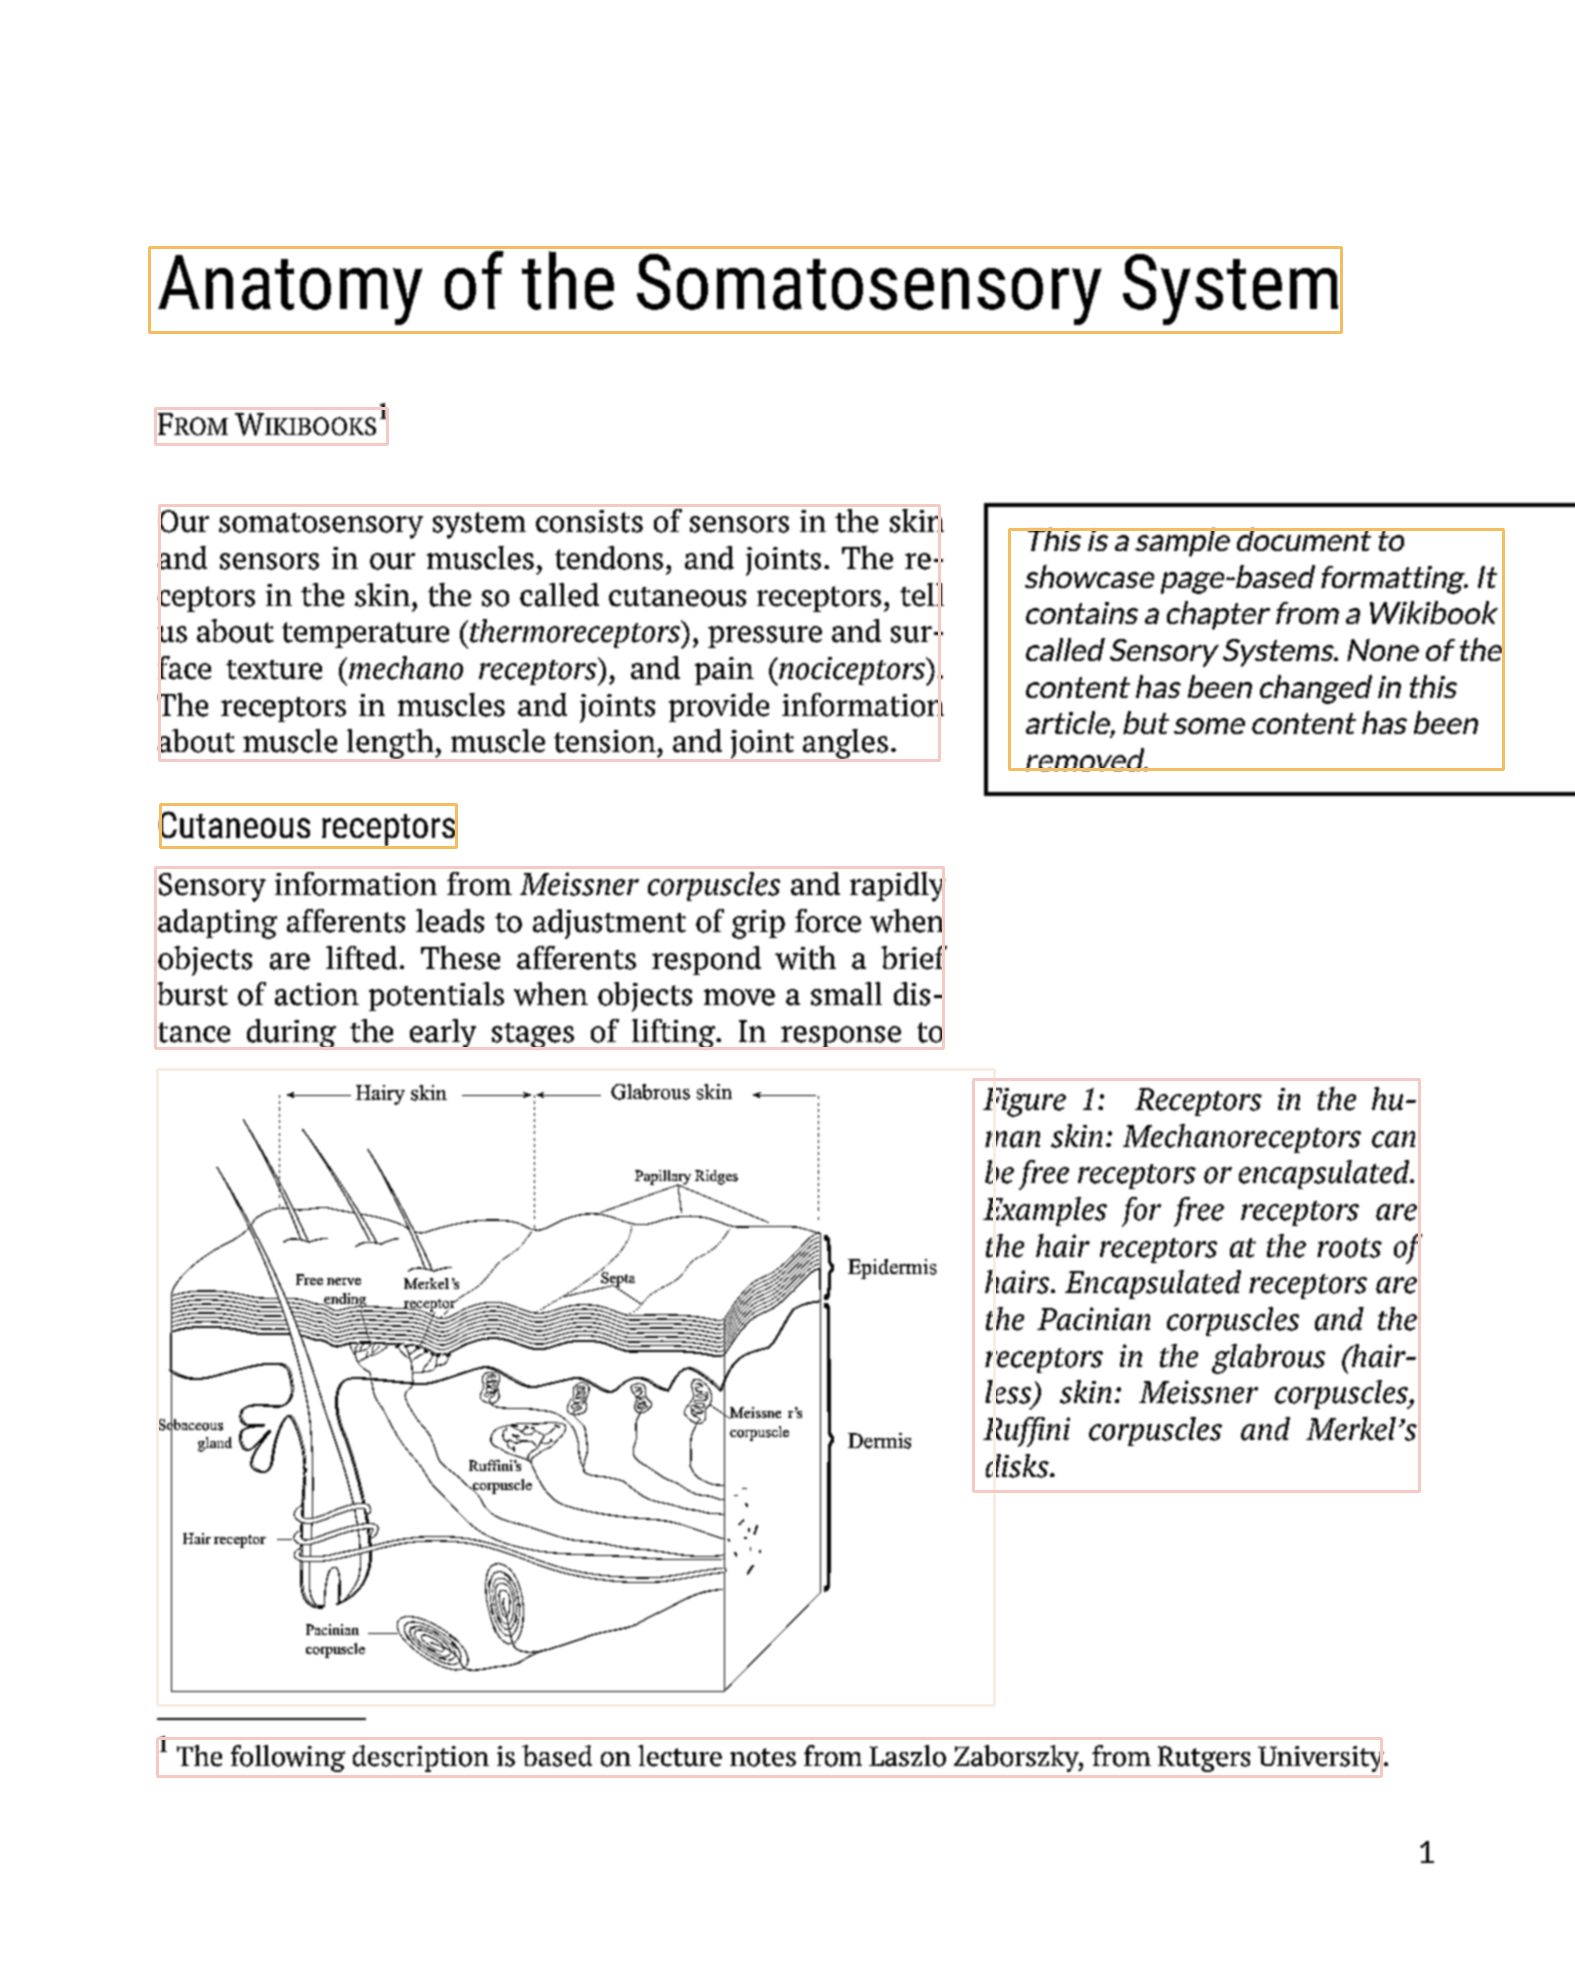
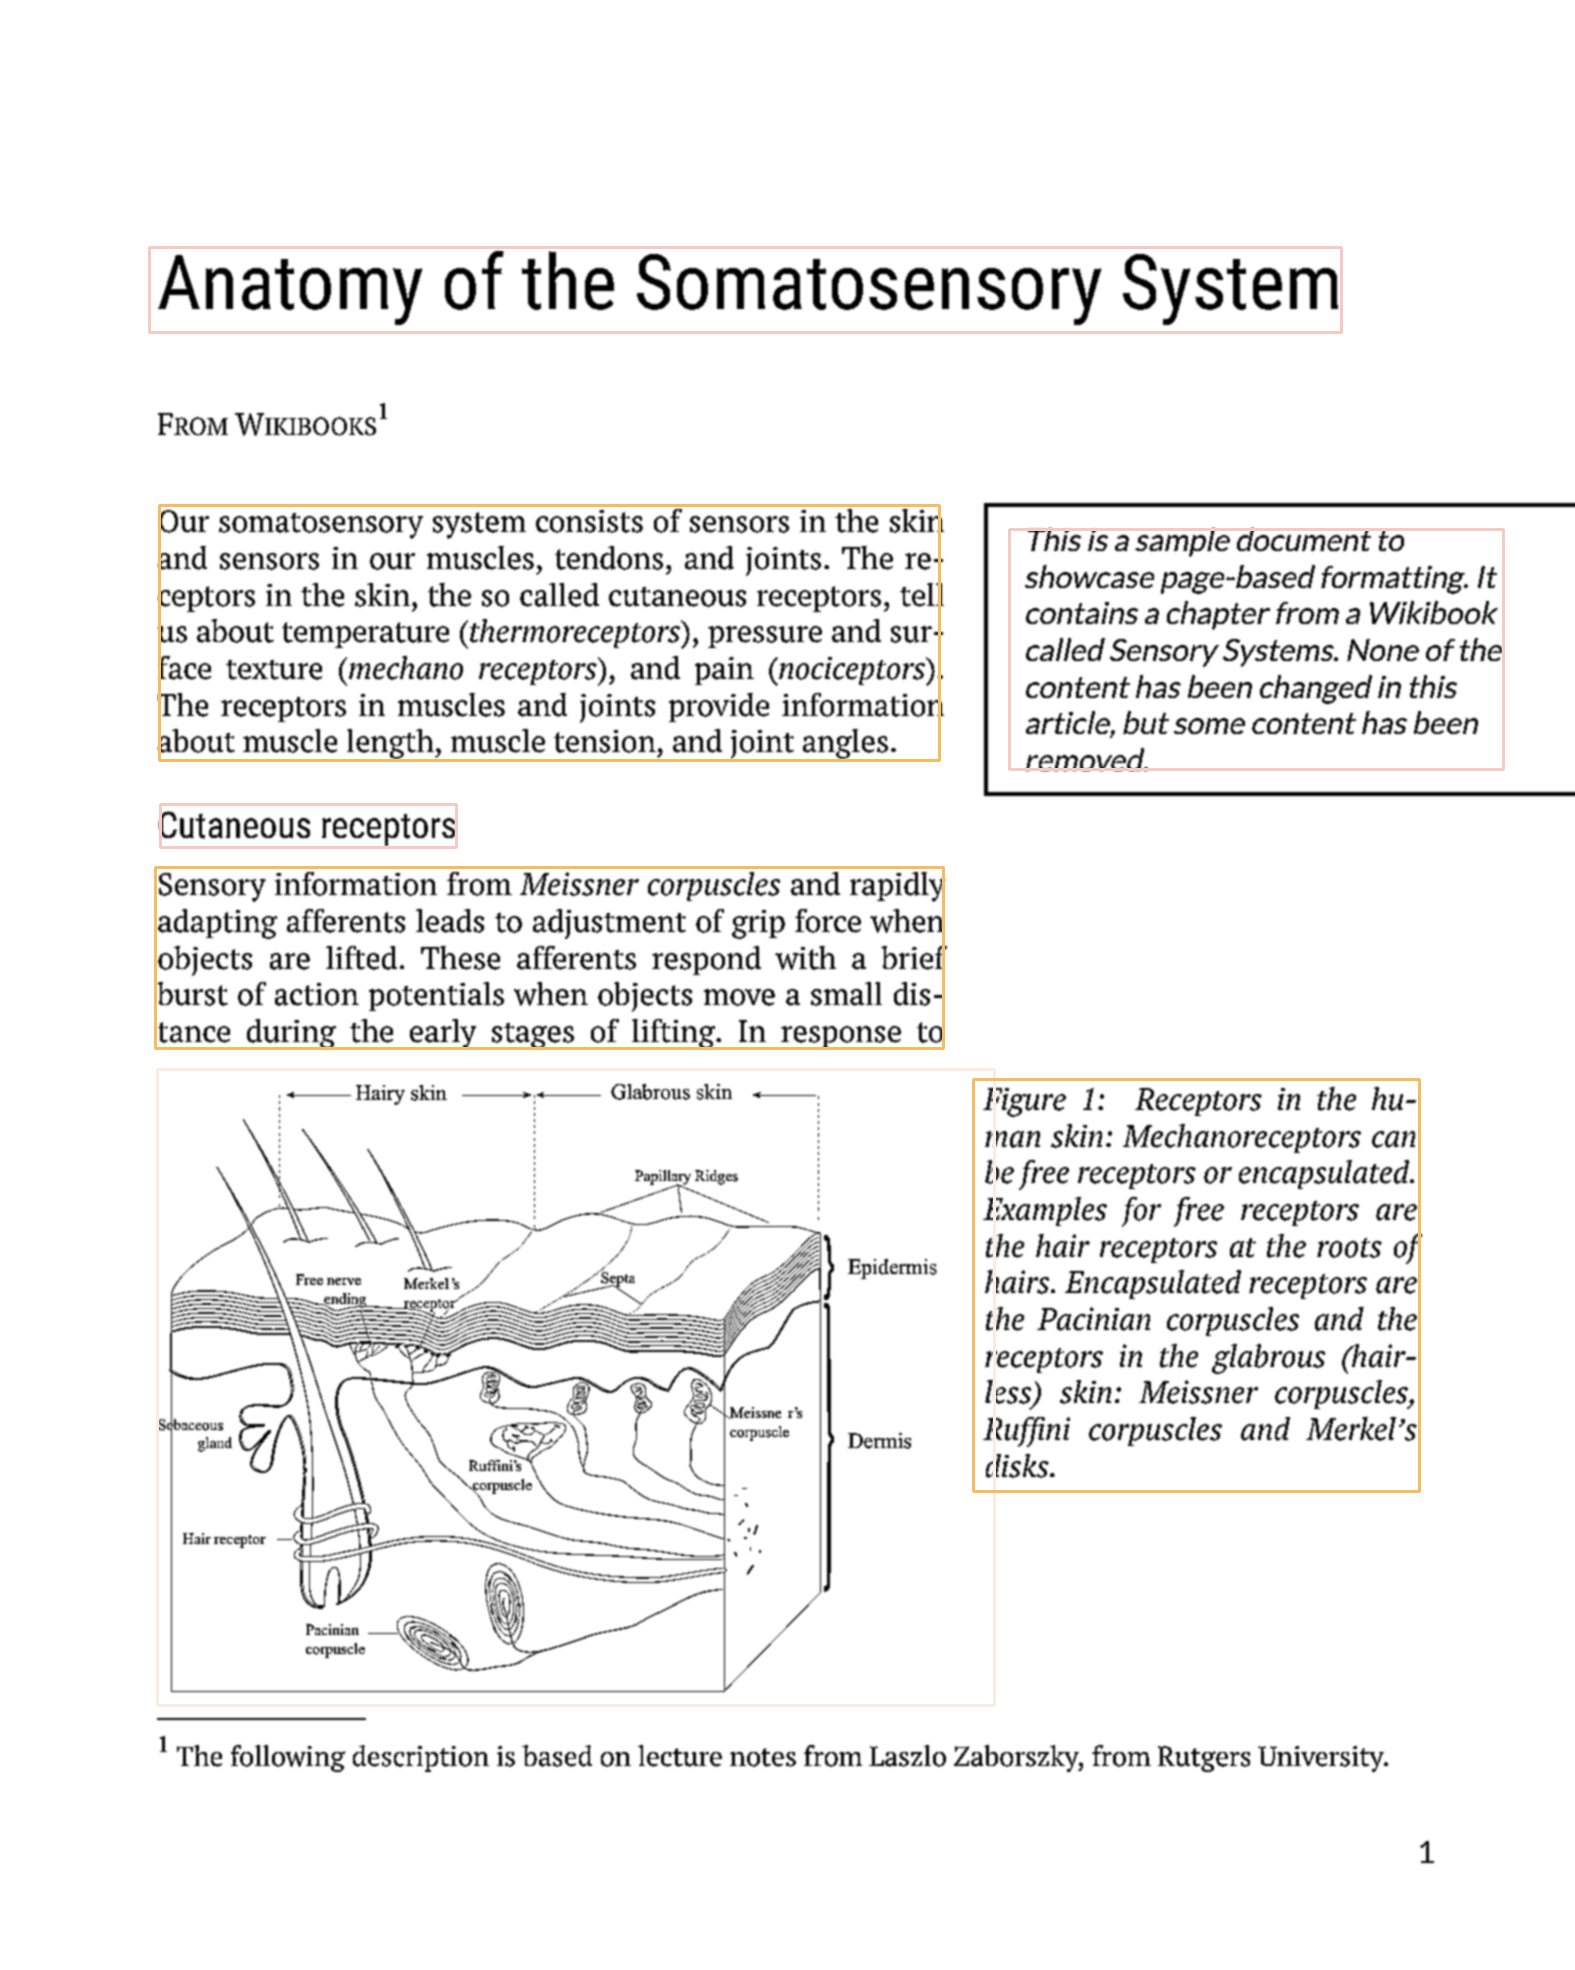
Updated layout model

Changed region(s): [[0.0933, 0.4025, 0.1244, 0.4335], [0.0933, 0.1239, 0.1244, 0.1548]]

diff --git a/Task_3/layout_detector.py b/Task_3/layout_detector.py
@@ -21,8 +21,8 @@ class Layout_detector:
         self.import_image = np.array(noise_removed_image)[..., ::-1] 
         self.model = lp.Detectron2LayoutModel(
             'lp://PubLayNet/mask_rcnn_X_101_32x8d_FPN_3x/config',
-            extra_config=["MODEL.ROI_HEADS.SCORE_THRESH_TEST", 0.8],
-            label_map={0: 'Text', 1: 'Title', 2: 'List', 3: 'Table', 4: 'Figure'}
+            extra_config=["MODEL.ROI_HEADS.SCORE_THRESH_TEST", 0.9],
+            label_map={0: "Text", 1: "Title", 2: "List", 3:"Table", 4:"Figure"}
         )
 
     def detect_image_layout(self):
